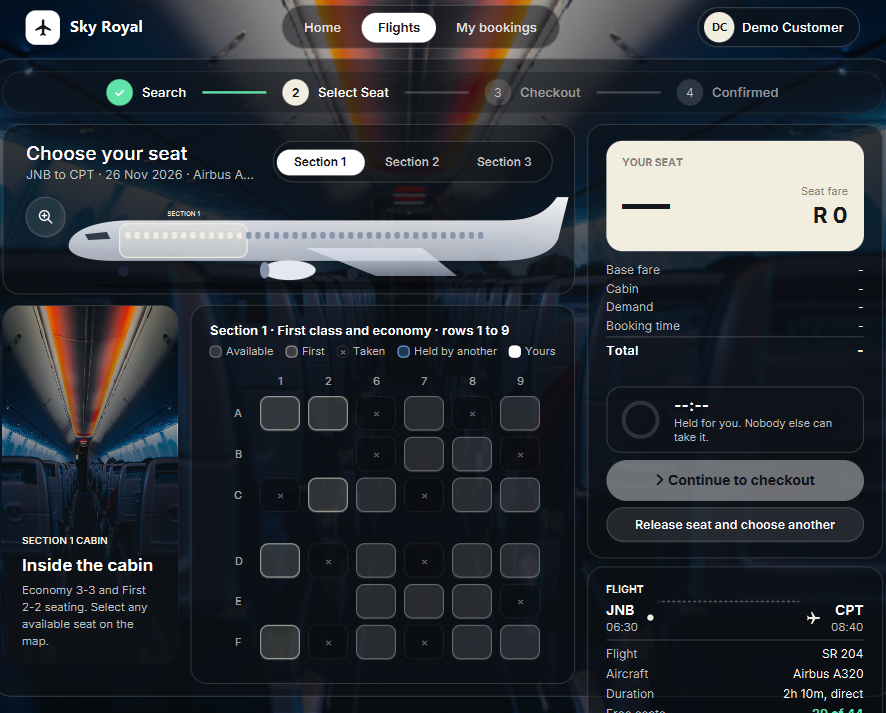
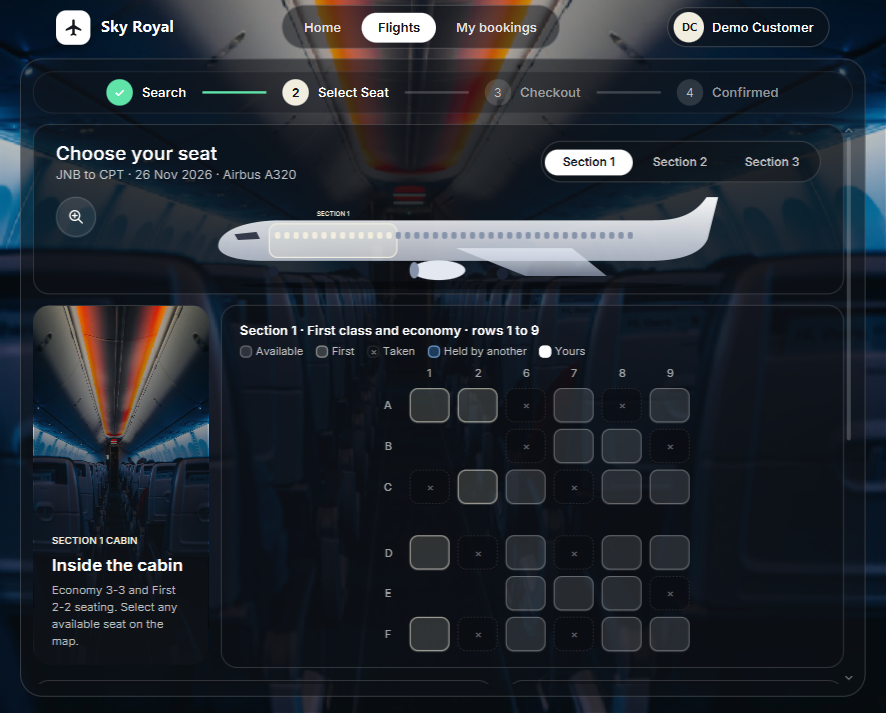
P8c: stack seat-map selection panel under seat map below 1000px

diff --git a/desktop/src/main/java/com/group2/flightres/util/GlassSeatMapBridge.java b/desktop/src/main/java/com/group2/flightres/util/GlassSeatMapBridge.java
@@ -179,18 +179,18 @@ public class GlassSeatMapBridge extends StackPane {
         }
         if (root == null) return;
 
-        // Lookup Glass elements
-        this.planeGraphic = (GlassPlaneGraphic) root.lookup("#planeGraphic");
-        this.section1Tab = (Button) root.lookup("#section1Tab");
-        this.section2Tab = (Button) root.lookup("#section2Tab");
-        this.section3Tab = (Button) root.lookup("#section3Tab");
-        this.sectionHeaderLabel = (Label) root.lookup("#sectionHeaderLabel");
-        this.seatGridNumbersRow = (HBox) root.lookup("#seatGridNumbersRow");
-        this.seatGridRowsContainer = (VBox) root.lookup("#seatGridRowsContainer");
-        this.zoomContainer = (VBox) root.lookup("#zoomContainer");
-        this.cabinPhotoCard = (StackPane) root.lookup("#cabinPhotoCard");
-        this.cabinPhotoView = (ImageView) root.lookup("#cabinPhotoView");
-        this.cabinKickerLabel = (Label) root.lookup("#cabinKickerLabel");
+        // Lookup Glass elements (falls back into ScrollPane.getContent() before skin creation)
+        this.planeGraphic = (GlassPlaneGraphic) lookupById(root, "planeGraphic");
+        this.section1Tab = (Button) lookupById(root, "section1Tab");
+        this.section2Tab = (Button) lookupById(root, "section2Tab");
+        this.section3Tab = (Button) lookupById(root, "section3Tab");
+        this.sectionHeaderLabel = (Label) lookupById(root, "sectionHeaderLabel");
+        this.seatGridNumbersRow = (HBox) lookupById(root, "seatGridNumbersRow");
+        this.seatGridRowsContainer = (VBox) lookupById(root, "seatGridRowsContainer");
+        this.zoomContainer = (VBox) lookupById(root, "zoomContainer");
+        this.cabinPhotoCard = (StackPane) lookupById(root, "cabinPhotoCard");
+        this.cabinPhotoView = (ImageView) lookupById(root, "cabinPhotoView");
+        this.cabinKickerLabel = (Label) lookupById(root, "cabinKickerLabel");
         if (root instanceof GlassBackground gb) {
             this.glassBackground = gb;
         }
@@ -198,27 +198,27 @@ public class GlassSeatMapBridge extends StackPane {
             this.cabinPhotoCard.setOnMouseClicked(e -> openCabinLightbox());
         }
 
-        this.bigSeatLabel = (Label) root.lookup("#bigSeatLabel");
-        this.bigPriceLabel = (Label) root.lookup("#bigPriceLabel");
-        this.chipsContainer = (HBox) root.lookup("#chipsContainer");
-        this.timerLabel = (Label) root.lookup("#timerLabel");
-        this.timerArc = (Arc) root.lookup("#timerArc");
-        this.continueButton = (Button) root.lookup("#continueButton");
-        this.releaseButton = (Button) root.lookup("#releaseButton");
+        this.bigSeatLabel = (Label) lookupById(root, "bigSeatLabel");
+        this.bigPriceLabel = (Label) lookupById(root, "bigPriceLabel");
+        this.chipsContainer = (HBox) lookupById(root, "chipsContainer");
+        this.timerLabel = (Label) lookupById(root, "timerLabel");
+        this.timerArc = (Arc) lookupById(root, "timerArc");
+        this.continueButton = (Button) lookupById(root, "continueButton");
+        this.releaseButton = (Button) lookupById(root, "releaseButton");
 
-        this.flightOriginCode = (Label) root.lookup("#flightOriginCode");
-        this.flightOriginTime = (Label) root.lookup("#flightOriginTime");
-        this.flightDestCode = (Label) root.lookup("#flightDestCode");
-        this.flightDestTime = (Label) root.lookup("#flightDestTime");
-        this.flightNoLabel = (Label) root.lookup("#flightNoLabel");
-        this.flightDurationLabel = (Label) root.lookup("#flightDurationLabel");
-        this.freeSeatsLabel = (Label) root.lookup("#freeSeatsLabel");
-        this.planeCardSubtitle = (Label) root.lookup("#planeCardSubtitle");
+        this.flightOriginCode = (Label) lookupById(root, "flightOriginCode");
+        this.flightOriginTime = (Label) lookupById(root, "flightOriginTime");
+        this.flightDestCode = (Label) lookupById(root, "flightDestCode");
+        this.flightDestTime = (Label) lookupById(root, "flightDestTime");
+        this.flightNoLabel = (Label) lookupById(root, "flightNoLabel");
+        this.flightDurationLabel = (Label) lookupById(root, "flightDurationLabel");
+        this.freeSeatsLabel = (Label) lookupById(root, "freeSeatsLabel");
+        this.planeCardSubtitle = (Label) lookupById(root, "planeCardSubtitle");
 
-        this.cabinContainer = (VBox) root.lookup("#cabinContainer");
-        this.seatSelectionLabel = (Label) root.lookup("#seatSelectionLabel");
-        this.totalPriceLabel = (Label) root.lookup("#totalPriceLabel");
-        this.stepperBar = (StepperBar) root.lookup("#stepperBar");
+        this.cabinContainer = (VBox) lookupById(root, "cabinContainer");
+        this.seatSelectionLabel = (Label) lookupById(root, "seatSelectionLabel");
+        this.totalPriceLabel = (Label) lookupById(root, "totalPriceLabel");
+        this.stepperBar = (StepperBar) lookupById(root, "stepperBar");
 
         if (stepperBar != null) {
             stepperBar.setActiveStep(BookingStep.SEAT_SELECTION);
@@ -234,15 +234,34 @@ public class GlassSeatMapBridge extends StackPane {
             cabinContainer.getChildren().addListener((javafx.collections.ListChangeListener<Node>) change -> {
                 Platform.runLater(this::harvestSeatsFromCabinContainer);
             });
-            harvestSeatsFromCabinContainer();
+            if (seatGridRowsContainer != null) {
+                harvestSeatsFromCabinContainer();
+            }
         }
 
         updateFlightCardData();
     }
 
+    private static Node lookupById(Node node, String id) {
+        if (node == null) return null;
+        if (id.equals(node.getId())) return node;
+        if (node instanceof javafx.scene.control.ScrollPane sp && sp.getContent() != null) {
+            Node found = lookupById(sp.getContent(), id);
+            if (found != null) return found;
+        }
+        if (node instanceof Parent p) {
+            for (Node child : p.getChildrenUnmodifiable()) {
+                Node found = lookupById(child, id);
+                if (found != null) return found;
+            }
+        }
+        return null;
+    }
+
     private void harvestSeatsFromCabinContainer() {
         if (seatGridRowsContainer == null) {
             initUiBindings();
+            if (seatGridRowsContainer == null) return;
         }
         if (cabinContainer == null && seatsByLabel.isEmpty() && (controller == null || controller.getSeatsByLabelMap().isEmpty())) return;
 

diff --git a/desktop/src/main/java/com/group2/flightres/controller/SeatMapController.java b/desktop/src/main/java/com/group2/flightres/controller/SeatMapController.java
@@ -20,7 +20,9 @@ import javafx.fxml.FXML;
 import javafx.scene.control.Alert;
 import javafx.scene.control.Button;
 import javafx.scene.control.Label;
+import javafx.scene.control.ScrollPane;
 import javafx.scene.layout.HBox;
+import javafx.scene.layout.Priority;
 import javafx.scene.layout.VBox;
 import org.slf4j.Logger;
 import org.slf4j.LoggerFactory;
@@ -74,6 +76,18 @@ public class SeatMapController implements WizardStepController {
     @FXML private Label flightDurationLabel;
     @FXML private Label freeSeatsLabel;
     @FXML private Label planeCardSubtitle;
+
+    // Responsive layout containers
+    @FXML private VBox mainGlassCard;
+    @FXML private VBox workspaceRoot;
+    @FXML private HBox workspaceSplit;
+    @FXML private VBox seatMapRightColumn;
+    @FXML private VBox selectionCard;
+    @FXML private VBox flightCard;
+    @FXML private HBox stackedSelectionRow;
+    @FXML private Label timerSubLabel;
+    private ScrollPane narrowScrollPane;
+    private boolean stackedMode = false;
 
     private static boolean preselectForScreenshots = false;
 
@@ -144,9 +158,100 @@ public class SeatMapController implements WizardStepController {
         if (glassBridge != null) {
             glassBridge.setController(this);
         }
+        setupResponsiveLayout();
         if (bookingContext == null) {
             loadFlightMetadata();
             loadSeatMap();
+        }
+    }
+
+    private void setupResponsiveLayout() {
+        if (workspaceSplit == null) return;
+        workspaceSplit.sceneProperty().addListener((obs, oldScene, newScene) -> {
+            if (newScene != null) {
+                newScene.widthProperty().addListener((wObs, oldW, newW) ->
+                        applyResponsiveSeatMapLayout(newW.doubleValue()));
+                applyResponsiveSeatMapLayout(newScene.getWidth());
+            }
+        });
+        if (workspaceSplit.getScene() != null) {
+            applyResponsiveSeatMapLayout(workspaceSplit.getScene().getWidth());
+        }
+    }
+
+    private void applyResponsiveSeatMapLayout(double width) {
+        if (width <= 0 || workspaceSplit == null || seatMapRightColumn == null
+                || selectionCard == null || flightCard == null || stackedSelectionRow == null) {
+            return;
+        }
+        boolean shouldStack = width < 1000.0;
+        if (shouldStack == stackedMode) {
+            return;
+        }
+        stackedMode = shouldStack;
+        if (shouldStack) {
+            workspaceSplit.getChildren().remove(seatMapRightColumn);
+            seatMapRightColumn.getChildren().removeAll(selectionCard, flightCard);
+            if (!stackedSelectionRow.getChildren().contains(selectionCard)) {
+                stackedSelectionRow.getChildren().add(selectionCard);
+            }
+            if (!stackedSelectionRow.getChildren().contains(flightCard)) {
+                stackedSelectionRow.getChildren().add(flightCard);
+            }
+            HBox.setHgrow(selectionCard, Priority.ALWAYS);
+            HBox.setHgrow(flightCard, Priority.ALWAYS);
+            selectionCard.setMaxWidth(Double.MAX_VALUE);
+            flightCard.setMaxWidth(Double.MAX_VALUE);
+            stackedSelectionRow.setVisible(true);
+            stackedSelectionRow.setManaged(true);
+            if (mainGlassCard != null && workspaceRoot != null) {
+                int idx = mainGlassCard.getChildren().indexOf(workspaceRoot);
+                if (idx >= 0) {
+                    if (narrowScrollPane == null) {
+                        narrowScrollPane = new ScrollPane();
+                        narrowScrollPane.setFitToWidth(true);
+                        narrowScrollPane.setFitToHeight(false);
+                        narrowScrollPane.setHbarPolicy(ScrollPane.ScrollBarPolicy.NEVER);
+                        narrowScrollPane.setVbarPolicy(ScrollPane.ScrollBarPolicy.AS_NEEDED);
+                        narrowScrollPane.getStyleClass().add("glass-scroll-pane");
+                        narrowScrollPane.setStyle("-fx-background-color: transparent; -fx-background: transparent; -fx-padding: 0;");
+                        VBox.setVgrow(narrowScrollPane, Priority.ALWAYS);
+                    }
+                    mainGlassCard.getChildren().remove(workspaceRoot);
+                    narrowScrollPane.setContent(workspaceRoot);
+                    mainGlassCard.getChildren().add(idx, narrowScrollPane);
+                }
+            }
+            if (timerSubLabel != null) {
+                timerSubLabel.maxWidthProperty().unbind();
+                timerSubLabel.maxWidthProperty().bind(selectionCard.widthProperty().subtract(84));
+            }
+        } else {
+            if (mainGlassCard != null && narrowScrollPane != null && workspaceRoot != null) {
+                int idx = mainGlassCard.getChildren().indexOf(narrowScrollPane);
+                if (idx >= 0) {
+                    narrowScrollPane.setContent(null);
+                    mainGlassCard.getChildren().remove(narrowScrollPane);
+                    mainGlassCard.getChildren().add(idx, workspaceRoot);
+                }
+            }
+            stackedSelectionRow.setVisible(false);
+            stackedSelectionRow.setManaged(false);
+            stackedSelectionRow.getChildren().removeAll(selectionCard, flightCard);
+            if (!seatMapRightColumn.getChildren().contains(selectionCard)) {
+                seatMapRightColumn.getChildren().add(selectionCard);
+            }
+            if (!seatMapRightColumn.getChildren().contains(flightCard)) {
+                seatMapRightColumn.getChildren().add(flightCard);
+            }
+            VBox.setVgrow(flightCard, Priority.ALWAYS);
+            if (!workspaceSplit.getChildren().contains(seatMapRightColumn)) {
+                workspaceSplit.getChildren().add(seatMapRightColumn);
+            }
+            if (timerSubLabel != null) {
+                timerSubLabel.maxWidthProperty().unbind();
+                timerSubLabel.setMaxWidth(172);
+            }
         }
     }
 
